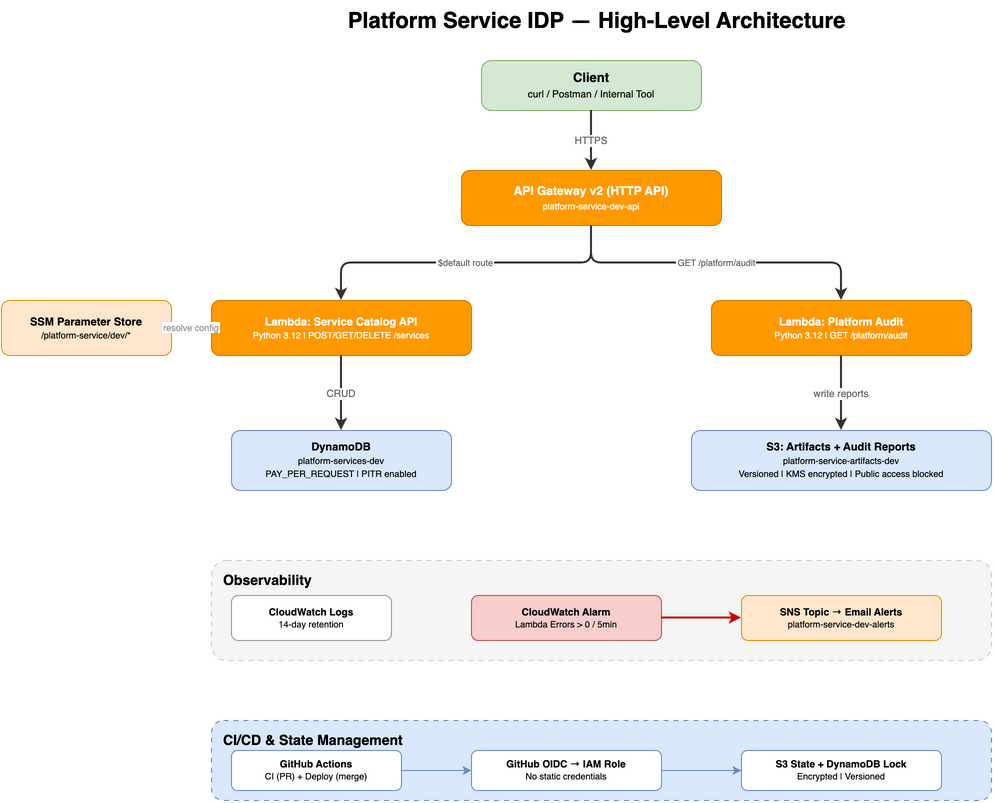
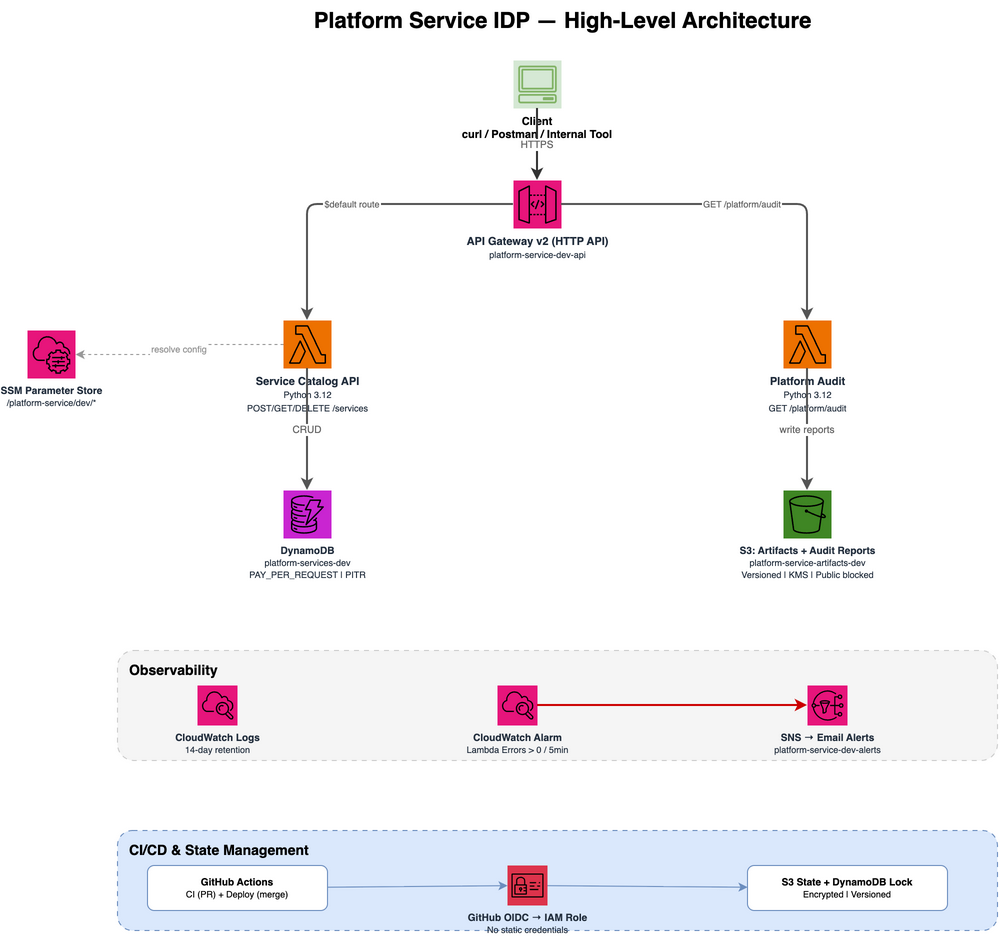
docs: rewrite README with mermaid diagram, audit docs, design rationale, deploy steps

diff --git a/README.md b/README.md
@@ -1,41 +1,79 @@
-# Platform Service Catalog API
+# Platform Service IDP
 
-A self-service REST API for internal teams to register and manage service metadata. Built on a serverless architecture using API Gateway v2, Lambda (Python 3.12), and DynamoDB — all managed by Terraform.
+A self-service Internal Developer Platform (IDP) with two capabilities: a **Service Catalog API** for teams to register and manage service metadata, and a **Platform Audit** endpoint that aggregates operational intelligence across AWS resources. Built on serverless architecture — API Gateway v2, Lambda (Python 3.12), DynamoDB, S3 — all managed by Terraform with CI/CD via GitHub Actions.
 
-## Architecture Overview
+## Architecture
 
+![Architecture Diagram](diagrams/architecture.png)
+
+> Raw draw.io files are in `diagrams/` — open with [app.diagrams.net](https://app.diagrams.net)
+
+```mermaid
+graph TD
+    Client[Client<br/>curl / Postman / Internal Tool] -->|HTTPS| APIGW[API Gateway v2<br/>HTTP API]
+    APIGW -->|$default route| Lambda1[Lambda: Service Catalog API<br/>Python 3.12]
+    APIGW -->|GET /platform/audit| Lambda2[Lambda: Platform Audit<br/>Python 3.12]
+    Lambda1 -->|resolve config| SSM[SSM Parameter Store]
+    Lambda1 -->|CRUD| DDB[(DynamoDB<br/>platform-services-dev)]
+    Lambda2 -->|write reports| S3[(S3: Artifacts + Audit Reports)]
+    Lambda1 & Lambda2 --> CWLogs[CloudWatch Logs<br/>14-day retention]
+    CWLogs --> CWAlarm[CloudWatch Alarm<br/>Errors > 0 / 5min]
+    CWAlarm -->|alert| SNS[SNS → Email]
+    GH[GitHub Actions] -->|OIDC| IAM[IAM Role<br/>No static credentials]
+    IAM --> TFState[(S3 State + DynamoDB Lock)]
 ```
-Client (curl / internal tool)
-    │
-    ▼
-API Gateway v2 (HTTP API)
-    │  AWS_PROXY integration, payload format v2.0
-    ▼
-Lambda (Python 3.12)
-    │  Routes: POST/GET/DELETE /services
-    ▼
-DynamoDB (platform-services-dev)
-    │  PAY_PER_REQUEST, PITR enabled
-    │
-    ├── CloudWatch Logs (structured JSON, 14-day retention)
-    │       └── CloudWatch Alarm (Lambda Errors, Sum > 0 / 5 min)
-    │               └── SNS Topic (alerts)
-    │
-    └── S3 (artifacts bucket, versioned, KMS-encrypted)
-```
 
-**Request flow**: Client sends an HTTP request → API Gateway forwards it to Lambda via proxy integration → Lambda handler parses the v2 event (`rawPath`, `requestContext.http.method`, `pathParameters`), validates input, delegates to the DynamoDB service layer, and returns a JSON response. All operations emit structured JSON logs to CloudWatch.
+## What This Does
+
+**Service Catalog API** — Internal teams register services (name, owner, description, runtime) via REST endpoints. Data persists in DynamoDB. This is the "developer portal backend" pattern from the assessment.
+
+**Platform Audit** — A single `GET /platform/audit` call scans your AWS account and returns a JSON report covering S3 encryption status, DynamoDB backup configuration, Lambda function settings, and CloudWatch log retention. Reports are also written to S3 for historical tracking.
+
+## Design Rationale
+
+I chose Lambda over ECS because the service handles simple CRUD operations with no long-running processes — Lambda scales to zero, eliminates container management overhead, and reduces Terraform surface area. Cold start latency is acceptable for an internal API. The alternative was ECS Fargate, which would add a load balancer, task definitions, and capacity planning for no meaningful benefit at this scale.
+
+DynamoDB was selected over RDS Aurora because the data model is a natural key-value fit (UUID primary key, simple attribute lookups). On-demand billing means zero capacity planning, no connection pooling, and no VPC configuration. If the service evolved to need relational queries or joins, RDS would be reconsidered — but for the current access patterns, DynamoDB is simpler and cheaper.
 
 ## Prerequisites
 
 - Python 3.12+
 - Terraform >= 1.5
-- AWS CLI configured with appropriate credentials
-- GitHub Actions for CI/CD (runs automatically on PRs and merges)
+- AWS CLI configured with SSO or IAM credentials
+- GitHub repo with `AWS_ROLE_ARN` secret set (for CI/CD)
 
-## Getting Started
+## Deploy
 
-### Local Development
+### 1. Bootstrap (first time only)
+
+```bash
+# Authenticate to AWS
+aws sso login
+
+# Deploy infrastructure
+cd terraform
+terraform init
+terraform plan -var-file=tfvars-env/dev/dev.tfvars
+terraform apply -var-file=tfvars-env/dev/dev.tfvars
+
+# Package and upload Lambda code
+./scripts/package-lambda.sh --upload platform-service-artifacts-dev lambda/package.zip
+
+# Update Lambda functions with new code
+aws lambda update-function-code --function-name platform-service-dev \
+  --s3-bucket platform-service-artifacts-dev --s3-key lambda/package.zip --region us-east-2
+aws lambda update-function-code --function-name platform-service-dev-audit \
+  --s3-bucket platform-service-artifacts-dev --s3-key lambda/package.zip --region us-east-2
+```
+
+### 2. CI/CD (ongoing)
+
+After bootstrap, all deployments go through GitHub Actions:
+
+- **Pull Requests → main**: CI runs lint, tests, `terraform validate`, `terraform fmt`, `terraform plan`
+- **Merge to main**: Deploy pipeline packages Lambda, uploads to S3, runs `terraform apply`
+
+### 3. Local Development
 
 ```bash
 cd app
@@ -43,164 +81,86 @@ pip install -r requirements.txt
 PYTHONPATH=app python -m pytest app/tests/ -v
 ```
 
-### Deploy Infrastructure
+## API Reference
 
-```bash
-cd terraform
-terraform init
-terraform plan -var-file=tfvars-env/dev/dev.tfvars
-terraform apply -var-file=tfvars-env/dev/dev.tfvars
-```
+Base URL: your API Gateway endpoint from `terraform output api_endpoint`
 
-## API Usage
+### Service Catalog
 
-Replace `$API_URL` with your API Gateway endpoint (e.g., `https://abc123.execute-api.us-east-1.amazonaws.com`).
+| Method | Path | Description | Status |
+|--------|------|-------------|--------|
+| `POST` | `/services` | Register a new service | 201 |
+| `GET` | `/services` | List all services | 200 |
+| `GET` | `/services/{id}` | Get a service by ID | 200 / 404 |
+| `DELETE` | `/services/{id}` | Delete a service | 204 |
 
-### Create a Service
-
+**Create a service:**
 ```bash
 curl -X POST "$API_URL/services" \
   -H "Content-Type: application/json" \
-  -d '{
-    "name": "auth-service",
-    "owner": "platform-team",
-    "description": "Handles authentication and authorization",
-    "runtime": "python3.12"
-  }'
+  -d '{"name": "auth-service", "owner": "platform-team", "description": "Auth service", "runtime": "python3.12"}'
 ```
 
-Response (201):
-```json
-{
-  "service_id": "550e8400-e29b-41d4-a716-446655440000",
-  "name": "auth-service",
-  "owner": "platform-team",
-  "description": "Handles authentication and authorization",
-  "runtime": "python3.12",
-  "created_at": "2025-01-15T10:30:00+00:00",
-  "updated_at": "2025-01-15T10:30:00+00:00"
-}
-```
+### Platform Audit
 
-### List All Services
+| Method | Path | Description | Status |
+|--------|------|-------------|--------|
+| `GET` | `/platform/audit` | Run platform audit | 200 |
 
-```bash
-curl "$API_URL/services"
-```
+Returns a JSON report with `s3_buckets`, `dynamodb_tables`, `lambda_functions`, `cloudwatch_log_groups`, and a `summary` with `issues_found`. Also writes the report to `s3://platform-service-artifacts-dev/audit-reports/`.
 
-Response (200):
-```json
-[
-  {
-    "service_id": "550e8400-e29b-41d4-a716-446655440000",
-    "name": "auth-service",
-    "owner": "platform-team",
-    "description": "Handles authentication and authorization",
-    "runtime": "python3.12",
-    "created_at": "2025-01-15T10:30:00+00:00",
-    "updated_at": "2025-01-15T10:30:00+00:00"
-  }
-]
-```
+## Terraform Modules
 
-### Get a Service
-
-```bash
-curl "$API_URL/services/{service_id}"
-```
-
-Response (200): Single service record JSON object.
-
-Response (404):
-```json
-{
-  "error": "Service not found"
-}
-```
-
-### Delete a Service
-
-```bash
-curl -X DELETE "$API_URL/services/{service_id}"
-```
-
-Response (204): Empty body.
-
-## Design Rationale
-
-| Decision | Rationale |
-|----------|-----------|
-| **Lambda** | No long-running processes. Scales to zero with minimal ops overhead. Cold start is acceptable for an internal API. |
-| **DynamoDB** | Schemaless, serverless, key-value access pattern fits the data model. PAY_PER_REQUEST means no capacity planning. |
-| **API Gateway v2 (HTTP API)** | Lower latency and cost than REST API (v1). Proxy integration simplifies routing. Sufficient for internal use. |
-| **Single Lambda function** | All 4 routes handled by one function. No need for per-route functions at this scale. |
-| **Structured JSON logging** | Enables querying and debugging via CloudWatch Logs Insights. Each log entry includes `request_id` and `function_name` for traceability. |
-| **Terraform modules** | Reproducible, auditable infrastructure. Modular design (DynamoDB, IAM, Lambda, Observability, S3) for reuse and separation of concerns. |
+| Module | Purpose |
+|--------|---------|
+| `s3` | Artifacts bucket — versioned, KMS encrypted, public access blocked |
+| `dynamodb` | Service catalog table — PAY_PER_REQUEST, PITR enabled |
+| `iam` | Lambda execution role — DynamoDB + SSM read, no wildcards |
+| `lambda_api` | Service Catalog Lambda + API Gateway v2 |
+| `audit` | Audit Lambda + API Gateway route |
+| `audit_iam` | Audit Lambda role — read-only AWS access + S3 write for reports |
+| `observability` | CloudWatch Logs (14-day retention), Alarm (errors > 0), SNS topic |
+| `notifications` | SNS email subscriptions (configurable list) |
+| `github_oidc` | GitHub Actions OIDC provider + deploy IAM role |
 
 ## Repository Structure
 
 ```
-platform-service-idp/
 ├── app/
 │   ├── src/
-│   │   ├── handlers/
-│   │   │   └── service_handler.py    # Lambda entry point, HTTP routing
-│   │   ├── models/
-│   │   │   └── service_model.py      # ServiceRecord dataclass
-│   │   ├── services/
-│   │   │   └── dynamodb_service.py   # DynamoDB CRUD operations
-│   │   └── utils/
-│   │       ├── logger.py             # Structured JSON logger
-│   │       └── validator.py          # Input validation
-│   ├── tests/
-│   │   ├── test_handler.py           # Handler unit + property tests
-│   │   ├── test_logger.py            # Logger property tests
-│   │   ├── test_model.py             # Model property tests
-│   │   ├── test_service.py           # Service layer property tests
-│   │   └── test_validator.py         # Validator property tests
+│   │   ├── handlers/          # Lambda entry points
+│   │   ├── models/            # Data models
+│   │   ├── services/          # DynamoDB service layer
+│   │   └── utils/             # Logger, validator
+│   ├── tests/                 # Unit + property tests
 │   ├── Dockerfile
 │   └── requirements.txt
 ├── terraform/
-│   ├── main.tf                       # Module composition
-│   ├── variables.tf
-│   ├── outputs.tf
-│   ├── backend.tf
-│   ├── provider.tf
-│   ├── locals.tf
-│   ├── tfvars-env/
-│   │   └── dev/
-│   │       └── dev.tfvars
-│   ├── modules/
-│   │   ├── dynamodb/                 # DynamoDB table (service_id key, PITR)
-│   │   ├── github_oidc/             # GitHub Actions OIDC provider + IAM role
-│   │   ├── iam/                      # Lambda execution role (least-privilege)
-│   │   ├── lambda_api/               # Lambda + API Gateway v2
-│   │   ├── notifications/            # SNS email subscriptions
-│   │   ├── observability/            # CloudWatch Logs, Alarm, SNS
-│   │   └── s3/                       # Artifacts bucket (versioned, KMS)
-│   └── tests/
-│       └── basic.tftest.hcl
-├── .github/
-│   └── workflows/
-│       ├── ci.yml                    # PR: lint + test + fmt + validate + plan
-│       └── deploy.yml                # Merge to main: package + upload + apply
-├── diagrams/
-│   ├── architecture.drawio
-│   └── architecture.png
-├── docs/
-│   ├── DECISIONS.md                  # Architectural Decision Records
-│   └── AI_WORKFLOW.md                # AI tool usage documentation
-├── .ai/                              # AI steering files and prompts
+│   ├── main.tf                # Module composition + SSM parameters
+│   ├── modules/               # 9 reusable modules
+│   ├── tfvars-env/dev/        # Environment-specific variables
+│   └── tests/                 # Terraform test (basic.tftest.hcl)
+├── scripts/
+│   └── package-lambda.sh      # Lambda packaging + S3 upload
+├── .github/workflows/
+│   ├── ci.yml                 # PR: lint + test + validate + plan
+│   └── deploy.yml             # Merge: package + upload + apply
+├── diagrams/                  # draw.io files + exported PNGs
+├── .ai/                       # AI steering files and prompts
+├── KIRO.md                    # AI agent configuration
 └── README.md
 ```
 
-## CI/CD
+## Observability
 
-- **Pull Requests** trigger the CI pipeline (`ci.yml`): ruff lint, pytest, `terraform fmt -check`, `terraform validate`, and `terraform plan`.
-- **Merges to main** trigger the deploy pipeline (`deploy.yml`): Lambda code packaging, S3 upload, and `terraform apply`.
+- **Structured JSON logging** — every log entry includes `timestamp`, `level`, `message`, `request_id`, `function_name`
+- **CloudWatch Alarm** — fires when Lambda error count > 0 in a 5-minute window
+- **SNS notifications** — alarm triggers email alerts to configured recipients
+- **Log retention** — 14 days on all Lambda log groups
 
 ## Known Limitations
 
-- **Authentication**: Deferred to a future phase. The API is currently unauthenticated.
-- **Pagination**: The `GET /services` endpoint returns all records via a DynamoDB Scan with no pagination.
-- **Environment**: Only a `dev` environment is configured. Production and staging environments are not yet set up.
+- **Authentication**: API is unauthenticated. API key or IAM auth planned for next iteration.
+- **Pagination**: `GET /services` returns all records via DynamoDB Scan.
+- **Environment**: Only `dev` is configured. Nonprod/prod tfvars directories exist but are empty.
+- **Audit scope**: Read-only audit uses `*` resource for list/describe operations (DynamoDB, Lambda, CloudWatch). Scoped to the deploy account only.
